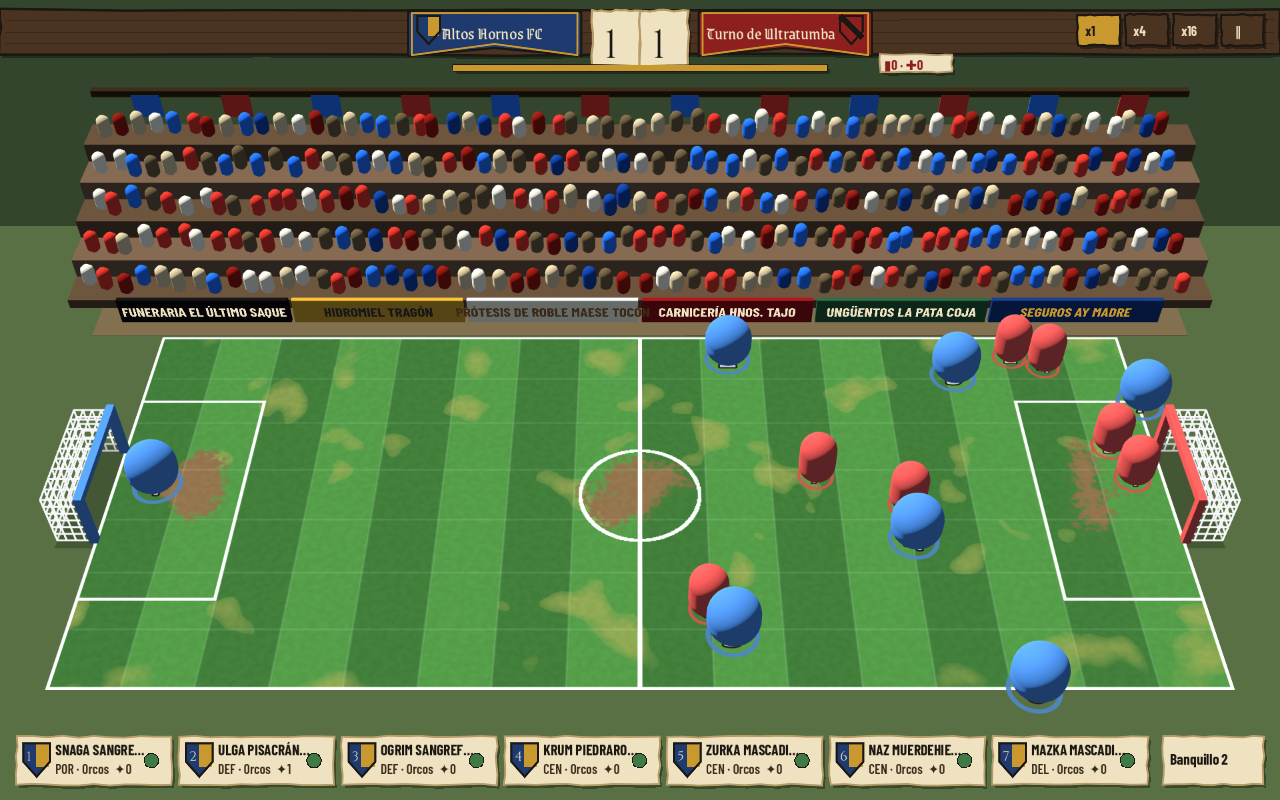
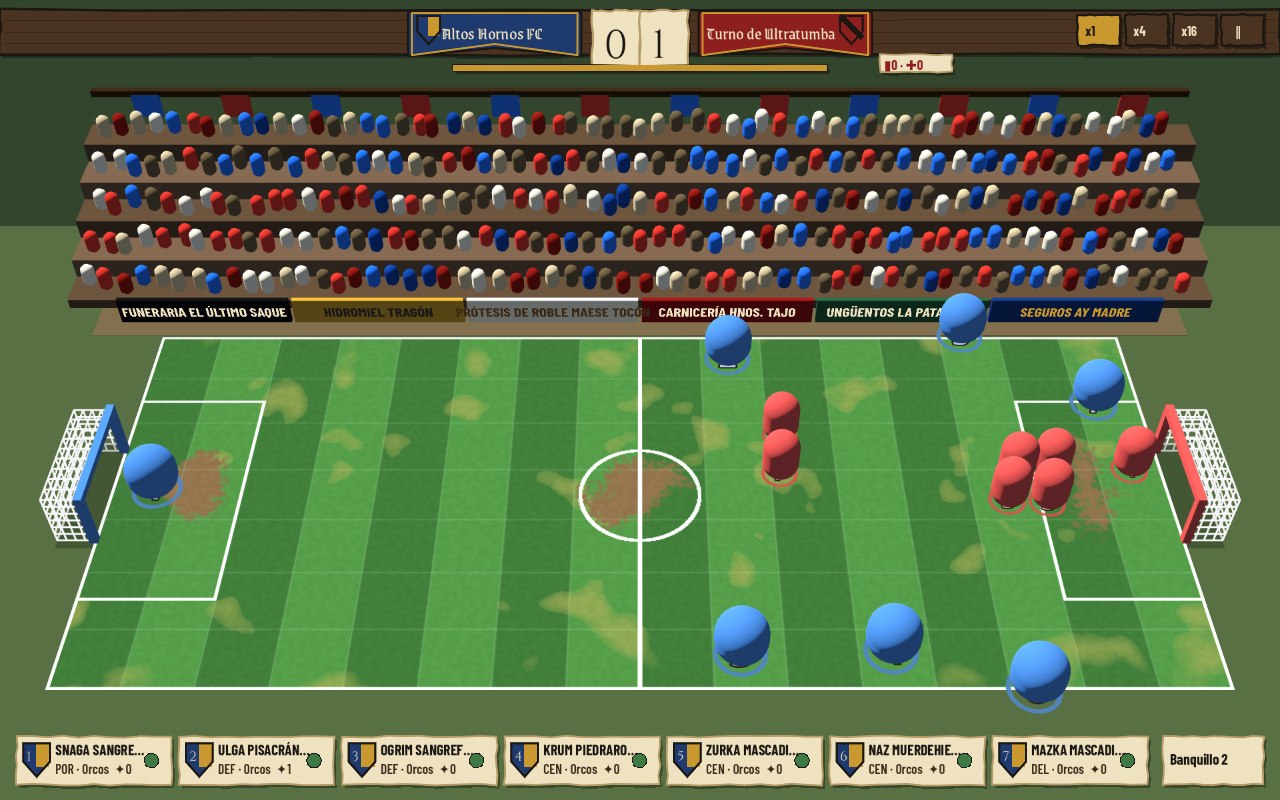
feat(game): la cortinilla del reinicio tras gol — ADR 0151
ResetCut (sin Godot) retiene la reproducción al llegar al último fotograma de
la celebración, funde a negro, cambia al fotograma de TEAMS_RESET y vuelve;
x4 a la cuarta parte, x16 corte seco, SeekTo lo anula. En la Retransmisión el
velo va encima del campo y debajo del tablero. Duraciones provisionales, sin
medir (0,15 / 0,10 / 0,15 s). El modo depuración conserva el corte seco.

Arranca un fotograma antes de cruzar: si no, la interpolación enseñaba ~33 ms
a todos ya colocados antes del negro (revisión independiente).

Capturas cortinilla-1..6 tomadas reproduciendo con StepManual; el resto de
capturas de retransmisión regeneradas con el motor nuevo.

Claude-Session: https://claude.ai/code/session_01WB28ukztfAkxX7LkbMPfzV

diff --git a/Game/Match/ResetCut.cs b/Game/Match/ResetCut.cs
@@ -1,0 +1,159 @@
+using System.Collections.Generic;
+using Underleague.Sim.Engine;
+using Underleague.Sim.Events;
+
+namespace Underleague.Game.Match;
+
+/// <summary>
+/// La cortinilla del reinicio tras gol (ADR 0151): cuando la reproducción cruza un
+/// <see cref="EventType.TeamsReset"/>, se detiene en el último fotograma de la celebración, funde a negro,
+/// cambia al fotograma del reinicio —el motor ya ha colocado a todos— y vuelve.
+///
+/// <para><b>No decide nada del partido</b> (RT-014): el salto lo hace <c>/Sim</c> y lo anuncia con un
+/// evento; esto sólo elige qué fotograma se enseña mientras dura el fundido y cuánto velo hay encima. Es
+/// una pausa de presentación, como la congelación del gol del director, y no gasta ticks del motor.</para>
+///
+/// <para>Sin nodo propio y sin Godot: la pantalla le pasa el fotograma que quiere enseñar y pinta lo que
+/// devuelve, así que la misma pieza vale para cualquier pantalla que reproduzca una traza.</para>
+/// </summary>
+public sealed class ResetCut
+{
+    /// <summary>
+    /// Duraciones a x1, en segundos: <b>provisionales, sin medir</b> (regla H). Salen de la ADR 0151
+    /// («muy breve»); se ajustan viéndolo y la cifra final se anota en la ADR.
+    /// </summary>
+    private const double FadeOutSeconds = 0.15;
+    private const double BlackSeconds = 0.10;
+    private const double FadeInSeconds = 0.15;
+
+    /// <summary>A esta velocidad o más, corte seco (ADR 0151 punto 7: x16 «ir al resultado»).</summary>
+    private const int HardCutSpeed = 16;
+
+    private enum Phase
+    {
+        Idle,
+        Out,
+        Black,
+        In,
+    }
+
+    private readonly List<int> _frames = new();
+    private Phase _phase;
+    private int _target;
+    private double _elapsed;
+
+    /// <summary>Opacidad del velo negro en este instante, de 0 a 1.</summary>
+    public float Veil { get; private set; }
+
+    /// <summary>True mientras la cortinilla retiene la reproducción.</summary>
+    public bool Active => _phase != Phase.Idle;
+
+    /// <summary>Lee los fotogramas de reinicio del partido. Se vuelve a llamar si el partido se re-simula.</summary>
+    public void Bind(IReadOnlyList<MatchEvent>? events, MatchTrace? trace)
+    {
+        _frames.Clear();
+        Reset();
+        if (events is null || trace is null)
+        {
+            return;
+        }
+
+        for (int i = 0; i < events.Count; i++)
+        {
+            if (events[i].Type == EventType.TeamsReset)
+            {
+                _frames.Add(trace.FrameOfTick(events[i].Tick));
+            }
+        }
+    }
+
+    /// <summary>Un salto de la barra o de una captura no es reproducción: se corta cualquier fundido en curso.</summary>
+    public void Reset()
+    {
+        _phase = Phase.Idle;
+        _elapsed = 0d;
+        Veil = 0f;
+    }
+
+    /// <summary>
+    /// El fotograma que hay que enseñar, dado el que se enseñaba (<paramref name="current"/>) y al que la
+    /// reproducción quiere avanzar (<paramref name="candidate"/>).
+    /// </summary>
+    public int Filter(int current, int candidate, double delta, int speed)
+    {
+        if (_phase == Phase.Idle)
+        {
+            // Se arranca UN FOTOGRAMA ANTES de cruzar: mientras se enseña reset-1, la vista 3D ya interpola
+            // hacia reset con el resto del reloj, y quien salta más de 0,6 casillas aparece en su sitio
+            // nuevo a mitad de ese fotograma (BA-K). Arrancando al llegar a reset-1 el fundido empieza con
+            // la interpolación a cero y nada del reinicio se ve antes del negro (revisión independiente).
+            int crossed = FirstResetIn(current, candidate + 1);
+            if (crossed < 0)
+            {
+                return candidate;
+            }
+
+            if (speed >= HardCutSpeed)
+            {
+                return candidate;
+            }
+
+            _phase = Phase.Out;
+            _target = crossed;
+            _elapsed = 0d;
+            Veil = 0f;
+            return crossed - 1;
+        }
+
+        // A x4 dura la cuarta parte (ADR 0151 punto 7).
+        _elapsed += delta * speed;
+        switch (_phase)
+        {
+            case Phase.Out:
+                if (_elapsed < FadeOutSeconds)
+                {
+                    Veil = (float)(_elapsed / FadeOutSeconds);
+                    return _target - 1;
+                }
+
+                _phase = Phase.Black;
+                _elapsed = 0d;
+                Veil = 1f;
+                return _target;
+
+            case Phase.Black:
+                Veil = 1f;
+                if (_elapsed >= BlackSeconds)
+                {
+                    _phase = Phase.In;
+                    _elapsed = 0d;
+                }
+
+                return _target;
+
+            default:
+                if (_elapsed < FadeInSeconds)
+                {
+                    Veil = 1f - (float)(_elapsed / FadeInSeconds);
+                    return _target;
+                }
+
+                Reset();
+                return _target;
+        }
+    }
+
+    /// <summary>Primer reinicio con <c>current &lt; f &lt;= limit</c>, o -1.</summary>
+    private int FirstResetIn(int current, int limit)
+    {
+        for (int i = 0; i < _frames.Count; i++)
+        {
+            if (_frames[i] > current && _frames[i] <= limit)
+            {
+                return _frames[i];
+            }
+        }
+
+        return -1;
+    }
+}

diff --git a/Game/Screens/BroadcastCapture.cs b/Game/Screens/BroadcastCapture.cs
@@ -519,6 +519,14 @@ public partial class BroadcastCapture : Control
             Drop(instance);
         }
 
+        // ADR 0151: la cortinilla del reinicio tras gol, fotografiada EN MARCHA. SeekTo la anula a
+        // propósito (un salto no es reproducción), así que se llega dos fotogramas antes del reinicio y se
+        // deja correr la pantalla con StepManual, que es determinista, parando en cada tramo del fundido.
+        if (found.TryGetValue("gol", out var goalHit))
+        {
+            await CaptureResetCut(run, goalHit.Seed, goalHit.Node, goalHit.Frame);
+        }
+
         // 3. Variantes de profundidad (revisión del orquestador: «el campo debe tener más 3D, más
         // profundidad»), solo si se pidieron por línea de comandos (`-- variantes`). Reutiliza el MISMO
         // fotograma que 'retrans-base' (estado inicial de la semilla base) y el MISMO que 'retrans-gol'
@@ -881,6 +889,68 @@ public partial class BroadcastCapture : Control
         {
             GD.PushWarning($"captura '{name}': se pidió el fotograma {want} y el campo enseña {got}");
         }
+    }
+
+    private async Task CaptureResetCut(RunController run, ulong seed, int node, int goalFrame)
+    {
+        run.NewRun("orc_ironworks", Race.Orc, seed);
+        run.SelectedNodeId = node;
+        var instance = await Show("res://Scenes/Retransmision.tscn", frames: 10);
+        if (instance is not BroadcastScreen screen || screen.Pitch3D.Trace is not { } trace)
+        {
+            Drop(instance);
+            return;
+        }
+
+        int reset = -1;
+        foreach (var e in run.Playback!.Result.Events)
+        {
+            if (e.Type == EventType.TeamsReset && trace.FrameOfTick(e.Tick) > goalFrame)
+            {
+                reset = trace.FrameOfTick(e.Tick);
+                break;
+            }
+        }
+
+        if (reset < 0)
+        {
+            GD.PushWarning("retransmisión: el gol capturado no tiene reinicio; se salta la cortinilla");
+            Drop(instance);
+            return;
+        }
+
+        GD.Print($"retransmisión: 'cortinilla' en la semilla {seed}, gol en {goalFrame}, reinicio en {reset}");
+        // Se llega de LEJOS y reproduciendo: tras un SeekTo el director devuelve su propio fotograma, que
+        // salió 8 por delante del pedido y ya había pasado el reinicio (medido: se pidió 1489 con el
+        // reinicio en 1491 y la pantalla arrancó en 1497; la cortinilla nunca se cruzaba).
+        await ShowFrame(screen, reset - 25, "cortinilla-0-antes");
+
+        const double Delta = 1d / 120d;
+        async Task StepUntil(Func<bool> done, string name)
+        {
+            for (int i = 0; i < 2000 && !done(); i++)
+            {
+                StepManual(screen, Delta, 1);
+            }
+
+            await Settle(2);
+            GD.Print($"{name}: fotograma {screen.Pitch3D.Frame} · velo {screen.CutVeil:0.00} · activa {screen.CutActive}");
+            await Save(name);
+        }
+
+        if (screen.Pitch3D.Frame >= reset)
+        {
+            GD.PushWarning($"retransmisión: la pantalla arrancó en {screen.Pitch3D.Frame}, pasado el reinicio {reset}; la cortinilla no se puede fotografiar");
+        }
+
+        await StepUntil(() => screen.CutActive, "cortinilla-1-celebracion");
+        await StepUntil(() => screen.CutActive && screen.CutVeil >= 0.5f, "cortinilla-2-funde");
+        await StepUntil(() => screen.CutVeil >= 1f, "cortinilla-3-negro");
+        await StepUntil(() => screen.CutActive && screen.CutVeil is > 0f and <= 0.5f, "cortinilla-4-vuelve");
+        await StepUntil(() => !screen.CutActive, "cortinilla-5-colocados");
+        int after = screen.Pitch3D.Frame + 10;
+        await StepUntil(() => screen.Pitch3D.Frame >= after, "cortinilla-6-saque");
+        Drop(instance);
     }
 
     private static void GoManual(BroadcastScreen screen)

diff --git a/Game/Screens/BroadcastScreen.cs b/Game/Screens/BroadcastScreen.cs
@@ -97,6 +97,10 @@ public partial class BroadcastScreen : Control
     private DecisionTray _tray = null!;
     private MatchPitchView3D _pitch3d = null!;
 
+    /// <summary>La cortinilla del reinicio tras gol (ADR 0151) y el velo negro que pinta, encima del campo y debajo del tablero.</summary>
+    private readonly ResetCut _cut = new();
+    private ColorRect _veil = null!;
+
     private int _frame;
     private double _carry;
     private int _speedIndex;
@@ -234,7 +238,17 @@ public partial class BroadcastScreen : Control
                 _carry -= advance;
                 candidate = Mathf.Clamp(_frame + advance, 0, trace.FrameCount - 1);
             }
+
+            // ADR 0151: si el avance cruza el reinicio tras un gol, la cortinilla retiene la reproducción
+            // mientras funde; lo que el reloj acumule en ese rato se descarta, como en una congelación.
+            candidate = _cut.Filter(_frame, candidate, delta, Speeds[_speedIndex]);
+            if (_cut.Active)
+            {
+                _carry = 0d;
+            }
         }
+
+        ApplyVeil();
 
         var result = _director.Advance(candidate, delta, Speeds[_speedIndex]);
         _frozenLastFrame = result.Frozen;
@@ -258,6 +272,12 @@ public partial class BroadcastScreen : Control
         UpdateShotGesture(Speeds[_speedIndex] == 1);
         UpdateEventSounds(Speeds[_speedIndex] == 1);
         UpdateDeathEdict((float)delta);
+    }
+
+    private void ApplyVeil()
+    {
+        _veil.Visible = _cut.Veil > 0f;
+        _veil.Color = new Color(0f, 0f, 0f, _cut.Veil);
     }
 
     public override void _UnhandledInput(InputEvent @event)
@@ -341,6 +361,19 @@ public partial class BroadcastScreen : Control
         _pitch3d.Bind(_trace, _playback.Setup, _catalog, _playback.Result.Events);
         _pitch3d.Marks = _moments.Marks;
         BuildBloodMarks();
+
+        // ADR 0151: el velo va justo encima del campo, así que funde el partido y deja a la vista el
+        // tablero y las tiras, que se añaden después.
+        _veil = new ColorRect
+        {
+            Position = Vector2.Zero,
+            Size = new Vector2(CanvasWidth, _canvasHeight),
+            Color = new Color(0f, 0f, 0f, 0f),
+            MouseFilter = MouseFilterEnum.Ignore,
+            Visible = false,
+        };
+        AddChild(_veil);
+        _cut.Bind(_playback.Result.Events, _trace);
 
         _board = new BroadcastBoard();
         AddChild(_board);
@@ -563,6 +596,8 @@ public partial class BroadcastScreen : Control
         _director.Seek(decisionFrame + 1);
         _director.Resolve();
         _pitch3d.Bind(_trace, _playback.Setup, _catalog, _playback.Result.Events);
+        _cut.Bind(_playback.Result.Events, _trace);
+        ApplyVeil();
         _pitch3d.Marks = _moments.Marks;
         BuildBloodMarks();
 
@@ -1522,6 +1557,12 @@ public partial class BroadcastScreen : Control
     /// </summary>
     public MatchPitchView3D Pitch3D => _pitch3d;
 
+    /// <summary>Para el arnés de capturas: opacidad del velo de la cortinilla (ADR 0151) y si está reteniendo la reproducción.</summary>
+    public float CutVeil => _cut.Veil;
+
+    /// <inheritdoc cref="CutVeil"/>
+    public bool CutActive => _cut.Active;
+
     /// <summary>
     /// Lleva la pantalla a ese fotograma y deja que el director lo presente: usado por
     /// <see cref="BroadcastCapture"/> para llegar a un momento concreto sin depender de dejar correr el
@@ -1538,6 +1579,8 @@ public partial class BroadcastScreen : Control
         _frame = Mathf.Clamp(frame, 0, trace.FrameCount - 1);
         _carry = 0d;
         _matchEnded = false;
+        _cut.Reset();
+        ApplyVeil();
         _lastStampMoment = null;
         _lastVoiceMoment = null;
 
